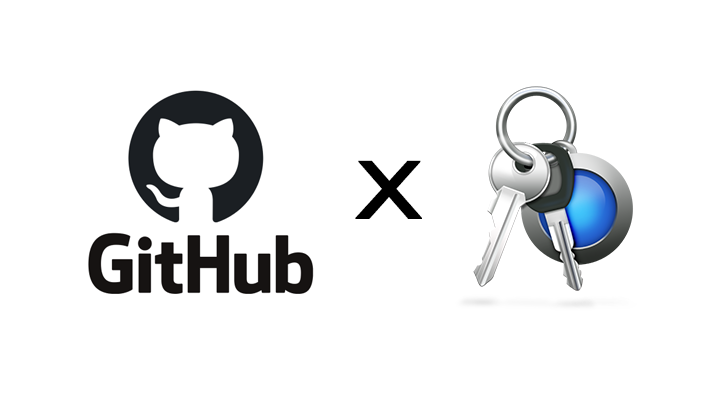
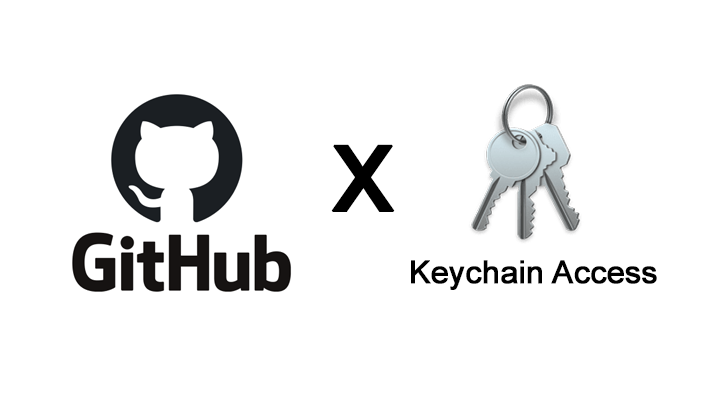
chore: Change cover image and delete wrong new line

Changed region(s): [[0.0918, 0.2116, 0.459, 0.7557], [0.5508, 0.2116, 0.9179, 0.7254], [0.459, 0.3627, 0.5814, 0.5743]]

diff --git a/devlog/왜 깃헙 repo에 푸쉬가 안되지?.md b/devlog/왜 깃헙 repo에 푸쉬가 안되지?.md
@@ -37,8 +37,8 @@ git, push, config, user.name, keychain access, github, push permission, 403, per
 <br />
 
 > ### **Keychain Access💆**
->
-> <br />
+
+<br />
 
 그래서 찾아낸 키워드가 바로 Keychain access<br />
 찾다 보니 예전에 이런 비슷한 케이스를 겪었던게 불현듯 기억났다..<br /> 처음 부트 캠프 초반이었는데, 자리 이동이 있어서 컴퓨터를 바꿨는데 기존 사용자 정보가 남아있어서 깃이 나를 거부했던 것을ㅋㅋㅋ
